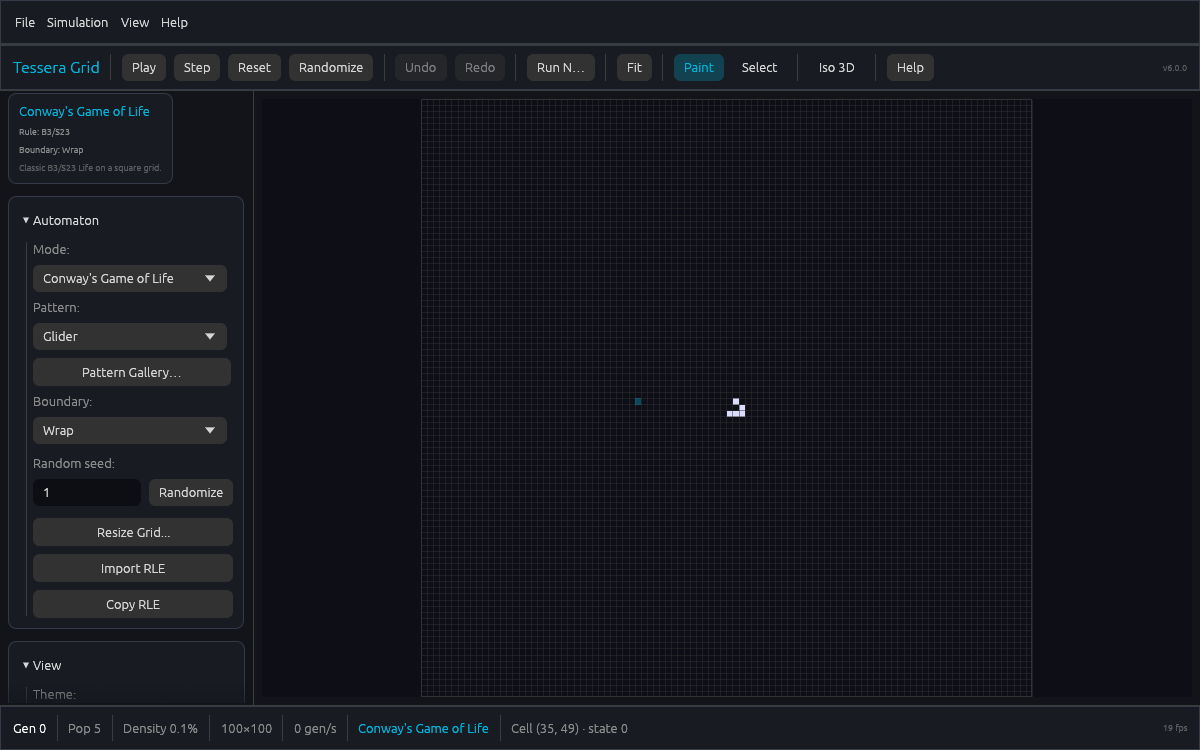
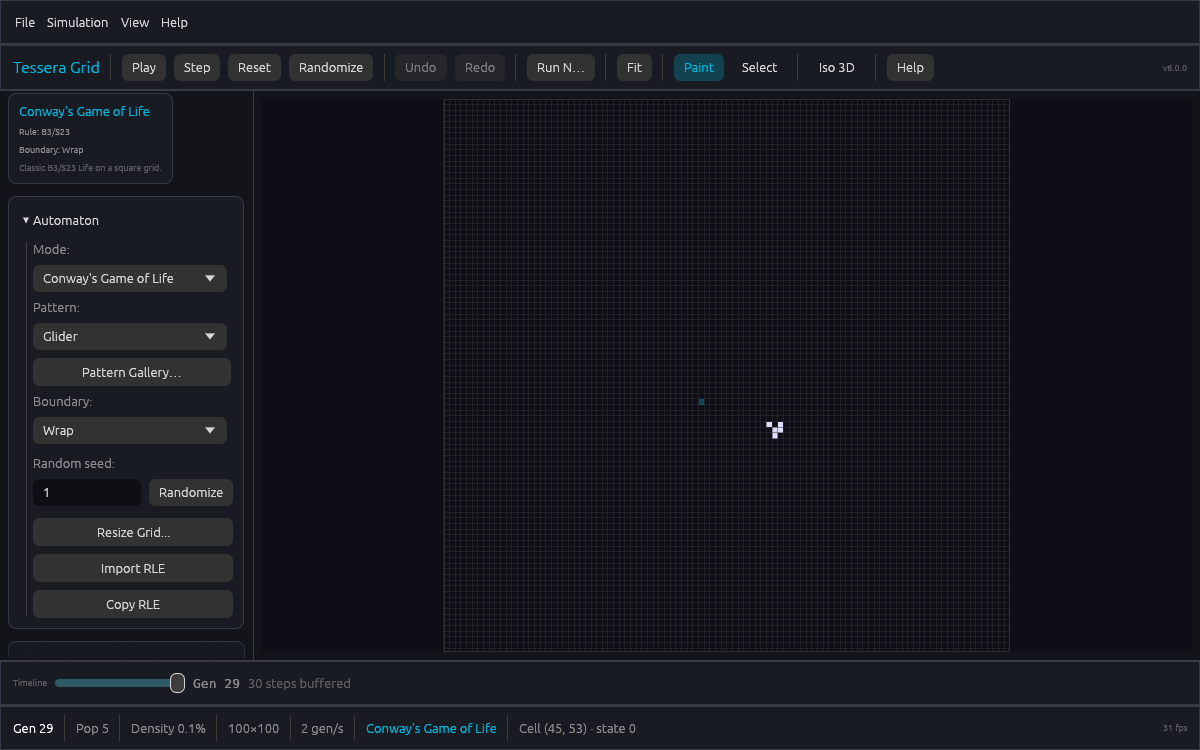
docs: announce 6.x, document the new features and tooling
- New `docs/announcing-tessera-grid.md` launch post covering the rename, themes,
  timeline, pattern editor, threading and the CLI.
- README: new feature bullets, `Ctrl+P`, refreshed main-window screenshot,
  roadmap check-offs, security-audit badge and the `cargo deny`/coverage steps.
- CONTRIBUTING: security policy, coverage guidance and rows for the timeline and
  pattern-draft modules.
- CHANGELOG entry for 6.1.0.

diff --git a/README.md b/README.md
@@ -2,14 +2,18 @@
 
 [![CI](https://github.com/James-HoneyBadger/TesseraGrid/actions/workflows/ci.yml/badge.svg)](https://github.com/James-HoneyBadger/TesseraGrid/actions/workflows/ci.yml)
 [![Release](https://github.com/James-HoneyBadger/TesseraGrid/actions/workflows/release.yml/badge.svg)](https://github.com/James-HoneyBadger/TesseraGrid/actions/workflows/release.yml)
+[![Security audit](https://github.com/James-HoneyBadger/TesseraGrid/actions/workflows/audit.yml/badge.svg)](https://github.com/James-HoneyBadger/TesseraGrid/actions/workflows/audit.yml)
 [![License: MIT](https://img.shields.io/badge/license-MIT-blue.svg)](LICENSE)
 
 A fast, native cellular-automaton simulator built with **Rust** and **egui**.
 
 Tessera Grid runs ten classic and custom automata in one interactive window — with a
 pattern gallery, seeded random soups, custom B/S rules, an isometric 3-D view,
-RLE import/export, PNG/GIF capture, a live population chart, and a headless CLI
-for scripted runs.
+RLE import/export, PNG/GIF capture, a live population chart, a timeline scrubber,
+an in-app pattern editor, and a headless CLI for scripted runs.
+
+New here? Read the [6.x announcement](docs/announcing-tessera-grid.md) for the
+rename, themes, timeline and pattern editor.
 
 ---
 
@@ -31,9 +35,15 @@ for scripted runs.
 - **RLE** — import from and copy to the clipboard; exports carry the correct
   per-mode rule header and multi-state letters.
 - **Export** — PNG snapshot or animated GIF (frames buffered to a 256 MB budget).
+- **Timeline scrubbing** — step back through the last 512 generations (64 MB
+  budget) and fork history by playing on from an earlier frame.
+- **Pattern editor** — draw a draft pattern on a 16–48 cell canvas, rotate, flip
+  or invert it, then stamp it into the grid or copy it as RLE.
 - **Undo / redo** — 100 snapshots covering every edit, including generation.
 - **Live statistics** — population chart with axes, peak/min/average, CSV export.
 - **Session state** — save/load `.tessera` JSON files (legacy `.lifegrid` files still load); UI settings persist.
+- **Multi-threaded stepping** — neighbour counting and cell updates run on all
+  cores via Rayon.
 - **Headless CLI** — drive the same engine from scripts and CI.
 - **8 color themes** — Dark, Light, Nord, Solarized Dark, Gruvbox, Dracula,
   High Contrast, and Paper; switch instantly with `T`.
@@ -175,6 +185,7 @@ cargo run --release -- --steps 100 --stats
 | Deselect | `Escape` |
 | Save / open state | `Ctrl+S` / `Ctrl+O` |
 | Export PNG | `Ctrl+E` |
+| Pattern editor | `Ctrl+P` |
 | Shortcut reference | `H` or `F1` |
 
 ### Themes
@@ -261,6 +272,7 @@ TesseraGrid/              # repository name
 │   │   │   ├── menu_bar.rs  # File/Edit/Run/View/Help menus
 │   │   │   ├── toolbar.rs   # quick-action toolbar
 │   │   │   ├── statusbar.rs # status text and FPS counters
+│   │   │   ├── timeline.rs  # generation scrubber bar
 │   │   │   ├── theme.rs     # applies ThemeColors to egui
 │   │   │   ├── canvas/      # flat and isometric rendering
 │   │   │   │   ├── mod.rs   # view dispatch
@@ -280,6 +292,7 @@ TesseraGrid/              # repository name
 │   │   │       ├── mod.rs
 │   │   │       ├── help.rs
 │   │   │       ├── gallery.rs
+│   │   │       ├── editor.rs   # pattern editor
 │   │   │       ├── run_n.rs
 │   │   │       ├── resize.rs
 │   │   │       └── about.rs
@@ -292,9 +305,12 @@ TesseraGrid/              # repository name
 │   │   ├── export.rs        # PNG and GIF rendering
 │   │   ├── automata/        # 10 automata behind one trait + tests
 │   │   └── core/            # grid, boundary, undo, config
+│   ├── deny.toml            # cargo-deny policy (advisories, licenses)
 │   └── tests/headless.rs    # end-to-end CLI tests
-├── .github/workflows/       # CI and release pipelines
-├── docs/screenshots/        # images referenced by this README
+├── .github/workflows/       # CI, security audit and release pipelines
+├── docs/
+│   ├── announcing-tessera-grid.md  # 6.x release post
+│   └── screenshots/         # images referenced by the docs
 ├── run-simulation.sh        # build + launch helper (forwards CLI flags)
 ├── rust-toolchain.toml      # pinned Rust channel/components
 ├── CHANGELOG.md
@@ -311,7 +327,9 @@ cd tessera-grid-rs
 cargo fmt --all --check
 cargo clippy --all-targets -- -D warnings
 cargo test --all-targets
-cargo build --release
+cargo build --release --locked
+cargo deny check          # advisories, licenses, banned crates
+cargo llvm-cov --all-targets --lcov --output-path lcov.info   # optional coverage
 ```
 
 Unit tests live next to the code (`src/automata/tests.rs`, `src/sim.rs`,
@@ -324,10 +342,12 @@ See [CONTRIBUTING.md](CONTRIBUTING.md) for the full workflow.
 
 ## Roadmap
 
-- [ ] GPU-accelerated grid stepping
+- [x] Multi-threaded grid stepping (Rayon)
+- [x] In-app pattern editor
+- [x] Timeline scrubber over recorded history
+- [ ] GPU (`wgpu` compute) stepping backend
 - [ ] Runtime plugin loading for custom automata
-- [ ] In-app pattern editor and RLE multistate authoring
-- [ ] Timeline scrubber over recorded history
+- [ ] RLE multistate authoring in the pattern editor
 - [ ] MP4/WebM export
 
 ---

diff --git a/docs/announcing-tessera-grid.md b/docs/announcing-tessera-grid.md
@@ -1,0 +1,98 @@
+# Announcing Tessera Grid
+
+*LifeGrid is now Tessera Grid — a Rust-native cellular-automata workbench with
+themes, a timeline you can scrub, a pattern editor and a headless CLI.*
+
+![Tessera Grid main window](screenshots/main-window.png)
+
+## The rename
+
+The project started as a Python/Tkinter experiment called **LifeGrid** and grew
+into a Rust/egui desktop application. The old name described only Conway's Game
+of Life, while the simulator now hosts ten different automata — Life-like rules,
+Hexagonal Life, Immigration and Rainbow games, Langton's Ant, Wireworld, Brian's
+Brain and Generations.
+
+**Tessera Grid** keeps the idea of tiles (*tessera* is Latin for a mosaic tile)
+without tying the app to a single rule set. The rename covers the crate
+(`tessera-grid`), the binary (`tessera`), the window title and the repository.
+
+Nothing is lost in the move:
+
+- Settings are imported from `~/.config/lifegrid/lifegrid_config.json` on first
+  launch and written to `~/.config/tessera-grid/config.json` afterwards.
+- Saved grids use the `.tessera` extension, and legacy `.lifegrid` files still
+  load.
+- `LIFEGRID_CONFIG_DIR` is still honoured alongside `TESSERA_CONFIG_DIR`.
+
+## What's new in 6.x
+
+### Eight colour themes
+
+Dark, Light, Nord, Solarized Dark, Gruvbox, Dracula, High Contrast and Paper.
+Each theme carries its own canvas palette, grid lines, panel and card colours,
+so light themes stay readable and high contrast stays usable. Cycle with `T`,
+or pick one from the View menu or the sidebar.
+
+![Themes](screenshots/themes.png)
+
+### Timeline scrubbing
+
+Every generation is recorded into a bounded history (512 steps or 64 MB by
+default). The scrubber under the canvas steps back through the recent past,
+pauses the simulation while you inspect a frame, and **Return to live** jumps
+back to the present. Stepping from a scrubbed position forks the timeline, so
+experiments never silently overwrite what you were looking at.
+
+### Pattern editor
+
+`Ctrl+P` opens a small drafting grid. Draw with the mouse, then rotate, flip or
+invert the draft and either stamp it into the centre of the live grid or copy it
+out as RLE. It is a quick way to test a reaction without hand-painting cells on
+a 100×100 canvas.
+
+### Multi-threaded stepping
+
+Neighbour counting and the per-cell update are both spread across cores with
+Rayon, and the per-step grid copy is gone. On a 4-core machine, a 600×600 Conway
+run is roughly twice as fast as the same workload pinned to a single thread.
+A GPU (`wgpu` compute) backend remains on the roadmap.
+
+### Headless first
+
+The engine has no UI dependency, so every mode is scriptable:
+
+```bash
+tessera --headless --steps 100 --png out.png
+tessera --rule B36/S23 --randomize --seed 42 --gif out.gif --stats
+tessera --list-modes
+```
+
+## Getting it
+
+Grab a binary from the [releases page](https://github.com/James-HoneyBadger/TesseraGrid/releases):
+
+| Platform | Asset |
+|----------|-------|
+| Linux x86_64 | `tessera-linux-x86_64` |
+| macOS (Apple silicon) | `tessera-macos-arm64` |
+| Windows x86_64 | `tessera-windows-x86_64.exe` |
+
+Or build from source:
+
+```bash
+git clone https://github.com/James-HoneyBadger/TesseraGrid
+cd TesseraGrid/tessera-grid-rs
+cargo build --release --locked
+```
+
+## Under the hood
+
+The egui layer is split into focused modules — `canvas/` for flat and isometric
+rendering, `sidebar/` with one module per card, `dialogs/` per dialog, plus
+`actions`, `input`, `io` and `shell` — while `src/sim.rs` stays a headless
+controller that the CLI and the GUI share. CI runs formatting, Clippy, tests on
+Linux/macOS/Windows, a coverage job and `cargo deny` for advisories and licenses.
+
+See [CONTRIBUTING.md](../CONTRIBUTING.md) for the module map and
+[CHANGELOG.md](../CHANGELOG.md) for the full history.

diff --git a/CONTRIBUTING.md b/CONTRIBUTING.md
@@ -61,9 +61,18 @@ cargo build --release
    cargo fmt --all --check
    cargo clippy --all-targets -- -D warnings
    cargo test --all-targets
+   cargo deny check    # advisories, licenses, banned crates
    ```
 
 5. **Open a pull request** against `master`.
+
+---
+
+### Security
+
+- `cargo deny check` runs in CI on dependency changes and weekly. If an advisory
+  cannot be fixed yet, add it to the `ignore` list in `tessera-grid-rs/deny.toml`
+  **with a comment** explaining why it does not affect us.
 
 ---
 
@@ -85,7 +94,11 @@ cargo build --release
   `#[cfg(test)]` module of `src/sim.rs`; parsing/serialisation next to the code
   (`rle.rs`, `core/undo.rs`, `core/config.rs`).
 - End-to-end CLI coverage lives in `tests/headless.rs` and runs the real binary.
+- UI-state helpers that are easy to get wrong (pattern drafts, timeline
+  history) belong in their own `#[cfg(test)]` modules.
 - Run everything with `cargo test --all-targets`.
+- Coverage is measured in CI with `cargo llvm-cov --all-targets --lcov`; run the
+  same command locally and inspect `lcov.info` if you add untested branches.
 
 ### Safety
 
@@ -195,6 +208,8 @@ The egui layer is split by responsibility so each file stays small:
 | New sidebar card | `src/app/sidebar/<name>.rs` with a `ui_<name>_section` method, wired into the card list in `src/app/sidebar/mod.rs` |
 | New dialog | `src/app/dialogs/<name>.rs` with a `ui_<name>` method, called from the frame loop in `src/app/shell.rs` |
 | Keyboard shortcut | handle it in `src/app/input.rs` and add a row to `SHORTCUTS` in `src/app/dialogs/help.rs` |
+| Timeline behaviour | `src/sim.rs` (history, scrubbing) plus `src/app/timeline.rs` (the bar) |
+| Pattern draft operations | `PatternDraft` in `src/patterns.rs`; the dialog in `src/app/dialogs/editor.rs` |
 | Flat/isometric drawing | `src/app/canvas/{flat,iso,paint,viewport}.rs`; `src/app/canvas/mod.rs` only dispatches |
 | Menu or toolbar button | `src/app/menu_bar.rs` or `src/app/toolbar.rs` |
 | Simulation action (step, reset, undo…) | `src/app/actions.rs`, delegating to `crate::sim` |
@@ -210,7 +225,7 @@ free of egui so the CLI keeps working headlessly.
 |------|---------|
 | `tessera-grid-rs/src/main.rs` | CLI dispatch and GUI launch |
 | `tessera-grid-rs/src/cli/` | CLI arguments and headless run |
-| `tessera-grid-rs/src/app/` | egui shell, actions, input, I/O, canvas, sidebar, dialogs |
+| `tessera-grid-rs/src/app/` | egui shell, actions, input, I/O, canvas, sidebar, dialogs, timeline |
 | `tessera-grid-rs/src/sim.rs` | Headless simulation controller (engine + undo + stats) |
 | `tessera-grid-rs/src/rle.rs` | RLE import/export |
 | `tessera-grid-rs/src/theme/` | Theme enum, accents and per-theme palettes |
@@ -219,7 +234,8 @@ free of egui so the CLI keeps working headlessly.
 | `tessera-grid-rs/src/export.rs` | PNG and GIF rendering |
 | `tessera-grid-rs/src/patterns.rs` | Built-in Conway pattern data |
 | `tessera-grid-rs/tests/` | End-to-end CLI tests |
-| `docs/screenshots/` | Screenshots embedded in the README |
+| `tessera-grid-rs/deny.toml` | cargo-deny policy for advisories, licenses and sources |
+| `docs/screenshots/` | Screenshots embedded in the README and release post |
 
 ---
 

diff --git a/CHANGELOG.md b/CHANGELOG.md
@@ -6,6 +6,34 @@ The format is based on [Keep a Changelog](https://keepachangelog.com/en/1.1.0/),
 
 ## [Unreleased]
 
+## [6.1.0] — 2026-10-24
+
+### Added
+- **Timeline scrubber** below the canvas: the last 512 generations (64 MB
+  budget) are recorded as you step, can be inspected by dragging the slider, and
+  "Return to live" jumps back to the newest frame. Playing on from a scrubbed
+  position forks the history instead of overwriting the future.
+- **Pattern editor** (`Ctrl+P`): draw on a 16/24/32/48-cell draft, rotate, flip
+  or invert it, then stamp it into the centre of the grid or copy it as RLE.
+- `cargo deny` policy (`tessera-grid-rs/deny.toml`) covering advisories,
+  licenses, bans and sources, checked by a weekly security-audit workflow.
+- Coverage job in CI (`cargo llvm-cov`) publishing an `lcov.info` artifact.
+- Issue forms, a pull-request template and a 6.x announcement post
+  (`docs/announcing-tessera-grid.md`).
+
+### Changed
+- Stepping is multi-threaded end to end: neighbour counting and the per-cell
+  update run through Rayon (`Grid::map_cells`, `Grid::update_cells`), and the
+  per-step grid copy is gone.
+- Keyboard shortcuts keep working after clicking buttons or the timeline
+  slider; only text fields capture the keyboard, and `Space` still defers to a
+  focused button.
+
+### Fixed
+- Updated `crossbeam-epoch` (RUSTSEC-2026-0204) and the yanked
+  `clipboard-win` release; unmaintained/advisory exceptions are documented in
+  `deny.toml`.
+
 ## [6.0.0] — 2026-10-24
 
 ### Changed
